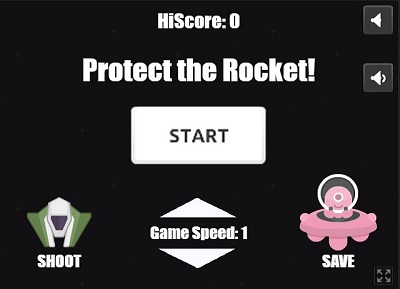
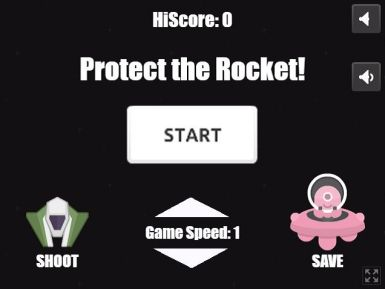
it.io updates

diff --git a/index.html b/index.html
@@ -365,7 +365,8 @@
                             <p>Initially created for a game jam in 12 hours, GalactiMAX is all about flying though the galaxy killing aliens to power up your spaceship! The theme of the jam was "Connect" so as you progress through the game, your ship combines with other ships to power up. The game is inspired by early space arcade games as well the anime Tengen Toppa Gurren Lagann.</p>
                             <p>I was the game designer and programmer in addition to coming up with the game's concept. I began making GalactiMAX a Galaga clone when I realized the game would work better as a scrolling shooter like Xevious. I also decided to gradually turn the game into a bullet-hell shooter as the game progressed to make the player feel more powerful.</p>
                             <p>The game is also inclusive by design. The ship fires automatically at enemies so the only movement input is needed. In addition, the game has high-contrast graphics and is colorblind-friendly by shaping enemy bullets different from the player's bullets.</p>
-                            <h3><a href="http://onlyusemefeet.itch.io/galactimax" target="_self">Play GalactiMAX on itch.io!</a></h3>
+                            <iframe frameborder="0" src="https://itch.io/embed/41628?link_color=326FDE" width="208" height="167"><a
+                            href="https://onlyusemefeet.itch.io/galactimax" target="_self">GalactiMAX by ONLYUSEmeFEET</a></iframe>
                             <a href="https://www.microsoft.com/en-us/store/p/galactimax/9pf9qld7b16l" target="_self"> <img src="assets/wstore.png" width="150" height="50" alt="GalactiMAX Windows Store Link"></a><br>
                             <ul class="list-inline">
                                 <li>Date: July 2017</li>
@@ -460,10 +461,11 @@
                             <!-- Project Details Go Here -->
                             <h2>Protect the Rocket!</h2>
                             <p class="item-intro text-muted">Let's Rocket!</p>
-                            <img class="img-responsive img-centered" src="assets/rocket.jpg" alt="Protect the Rocket Screenshot">
+                            <img class="img-responsive img-centered" src="assets/rocket2.jpg" alt="Protect the Rocket Screenshot">
                             <p>Protect your rocket! Tap to defeat enemy ships. The sooner you tap, the more points you earn. But be careful! You have to hold your fire and save friendly pink aliens. Destroy a pink alien or fail to defeat an enemy ship and it's game over!</p>
                             <p>Speech synthesis is enabled by default to read out information for low vision players. Simply tap the top-right speech pause button to disable this feature. An additional game speed feature is also included for accessibility, to allow players to play at their own pace. Made during Train Jam 2017 with the theme "Unexpected Anticipation."</p>
-                            <h3><a href="https://onlyusemefeet.itch.io/protect-the-rocket" target="_self">Play Protect the Rocket!</a></h3>
+                            <iframe frameborder="0" src="https://itch.io/embed/122775?link_color=326FDE" width="208" height="167"><a
+                            href="https://onlyusemefeet.itch.io/protect-the-rocket" target="self">Protect the Rocket! by ONLYUSEmeFEET</a></iframe>
                             <ul class="list-inline">
                                 <li>Date: February 2017</li>
                                 <li>Game Engine: Construct 2</li>
@@ -561,7 +563,8 @@
                             <p>Built in 72 hours for the Indies vs Gamers game jam, Arcade Hysteria traps you in an arcade machine trying to keep your sanity. While initially appearing like a normal endless runner game, let your sanity below 50% and witness the world in hysteria! I was the game designer and a programmer.</p>
                             <p>Since Arcade Hysteria is an endless runner game, I wanted to innovate somehow to make it unique. I chose to implement the sanity meter as well as the two worlds the player traverses. The dual world concept was inspired by the Legacy of Kain series. I also wanted the music to change with the game's environment so I implemented dynamic audio.</p>
                             <p>The game can be played with one switch; any button will both start the game and make the player jump. The visuals also change shape along with color during sanity transitions to be colorblind-friendly. And while it's cool, the dynamic audio is not necessary to enjoy the game.</p>
-                            <h3><a href="http://onlyusemefeet.itch.io/arcadehysteria" target="_self">Play Arcade Hysteria on itch.io!</a></h3>
+                            <iframe frameborder="0" src="https://itch.io/embed/42316?link_color=326FDE" width="208" height="167"><a
+                            href="https://onlyusemefeet.itch.io/arcadehysteria" target="_self">Arcade Hysteria by ONLYUSEmeFEET</a></iframe>
                             <a href="https://www.microsoft.com/en-us/store/p/arcade-hysteria/9pm89vvwl8r0" target="_self"> <img src="assets/wstore.png" width="150" height="50" alt="Arcade Hysteria Windows Store link"></a><br>
                             <ul class="list-inline">
                                 <li>Date: July 2017</li>
